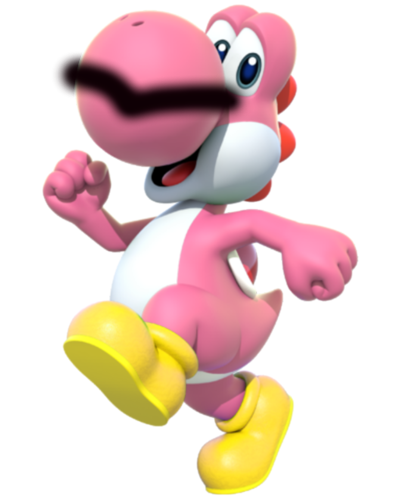
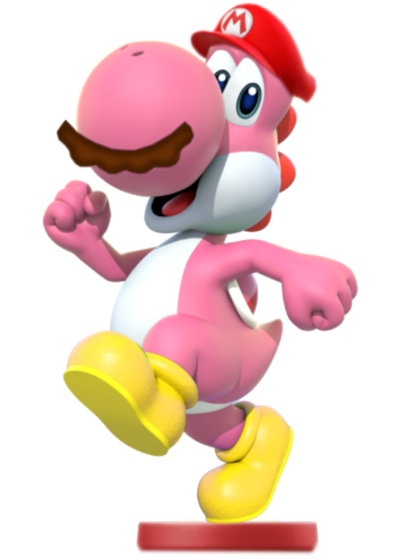
changements sur les boutons

diff --git a/index.html b/index.html
@@ -62,11 +62,13 @@
         <!-- Section 2 -->
         <div class="page" id="section2">
             <div class="row justify-content-center">
-                <h2>Customize your Yoshi amiibo</h2>
+                <div class="col text-center">
+                    <h2>Customize your Yoshi amiibo</h2>
+                </div>
             </div>
             <div class="row align-items-center justify-content-center">
-                <div class="col-3 justify-content-center">
-                    <div class="card card-custom-yoshi m-auto" style="width: 22rem;">
+                <div class="col-xs-12 col-md-12 col-lg-3 justify-content-center">
+                    <div class="card card-custom-yoshi m-auto">
                         <img id="change-image" src="assets/images/yoshiVert.png" alt="Classic Yoshi" class="card-img-top py-2">
                         <div class="card-body body-custom-yoshi">
                             <h5 class="card-title title-custom">Classic Yoshi</h5>
@@ -74,19 +76,19 @@
                         </div>
                      </div>
                 </div>
-                <div class="col-4">
+                <div class="col-xs-12 col-md-12 col-lg-4">
                     <div class="zone-custom text-center pb-5">
                         <h3 class="text-center">Choose your color</h3>
                         <ul class="nav justify-content-center">
-                            <li class="nav-item mr-5"><button class="btn green-button p-4 button-custom" alt="Green"></button></li>
+                            <li class="nav-item mr-5"><button id="active" class="btn green-button p-4 button-custom" alt="Green"></button></li>
                             <li class="nav-item mr-5"><button class="btn pink-button p-4 button-custom" alt="Pink"></button></li>
                             <li class="nav-item"><button class="btn blue-button p-4 button-custom" alt="Blue"></button></li>
                         </ul>
                     </div>
                     <div class="zone-custom text-center pb-5">
                         <h3 class="text-center">Choose your accessory</h3>
-                        <button type="button" class="btn none btn-primary">None</button>
-                        <button type="button" class="btn moustache btn-primary">Moustache</button>
+                        <button type="button" class="btn none btn-light">None</button>
+                        <button type="button" class="btn moustache btn-light">Moustache</button>
                     </div>
                     <div class="button-zone mt-5">
                         <div class="text-center">

diff --git a/js/section2.js b/js/section2.js
@@ -1,11 +1,16 @@
     
 $(document).ready(function () 
 {
-    color = 'green';
-    accessory = 'none';  
+    color = 'default';
+    accessory = 'none';
     //Customization 
     $('.green-button').on({'click': function()
     {
+        if (color=='default')
+        {
+            $('.green-button').removeAttr('id');
+        }
+        
         if (accessory=='none')
         {
             $('#change-image').attr('src','assets/images/yoshiVert.png');
@@ -24,6 +29,10 @@ $(document).ready(function ()
 
     $('.pink-button').on({'click': function()
     {
+        if (color=='default')
+        {
+            $('.green-button').removeAttr('id');
+        }
         if (accessory=='none')
         {
             $('#change-image').attr('src','assets/images/yoshiRose.png');
@@ -42,6 +51,10 @@ $(document).ready(function ()
 
     $('.blue-button').on({'click': function()
     {
+        if (color=='default')
+        {
+            $('.green-button').removeAttr('id');
+        }
         if (accessory=='none')
         {
             $('#change-image').attr('src','assets/images/yoshiBleu.png');

diff --git a/css/section2.css b/css/section2.css
@@ -2,6 +2,11 @@
 {
     background-color: transparent;
     border: transparent;
+    width: 75%;
+}
+.card-custom-yoshi img
+{
+    width: 100%;
 }
 
 .body-custom-yoshi
@@ -41,4 +46,20 @@
 .button-custom
 {
     border:none;
+}
+.button-custom:focus
+{
+    border:solid 2px grey;
+}
+.button-custom:active
+{
+    border:solid 2px grey;
+}
+#active
+{
+    border:solid 2px grey;
+}
+.moustache:before
+{
+    content:url('assets/images/moustache.png');
 }
